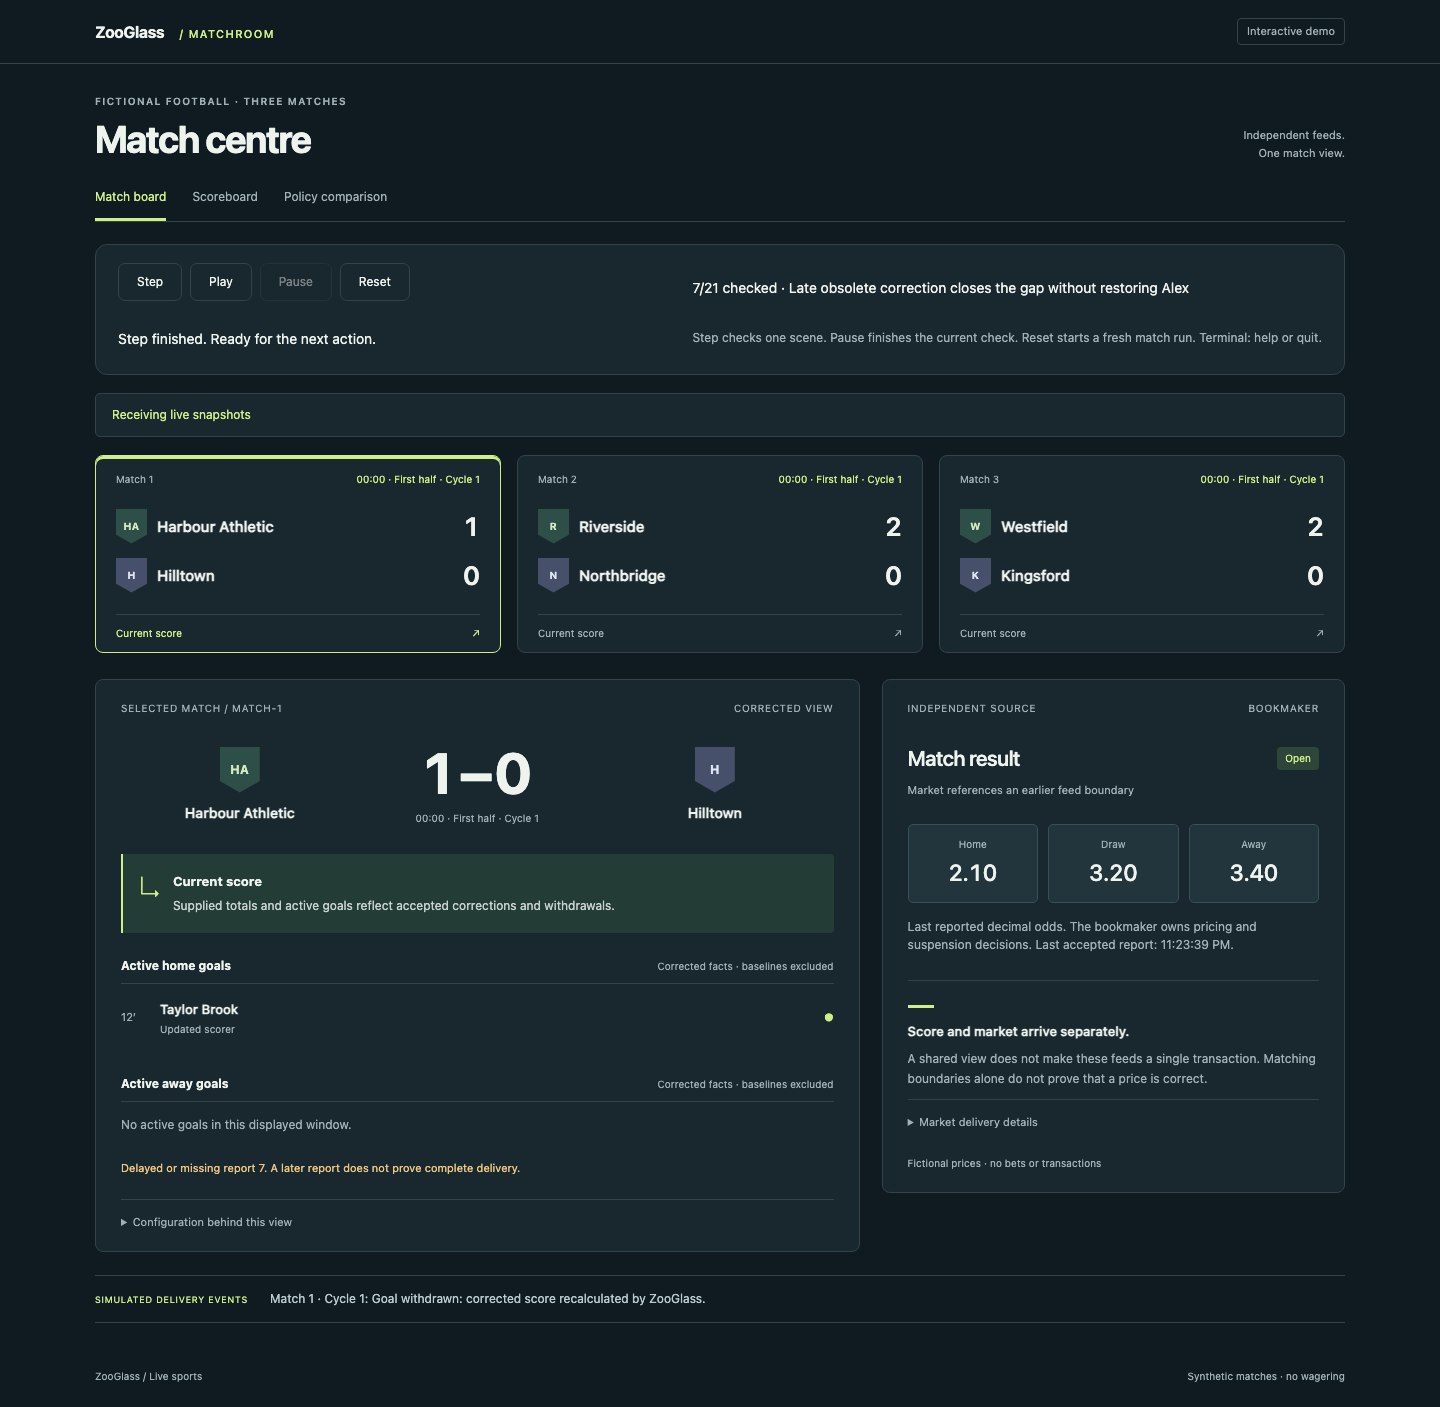
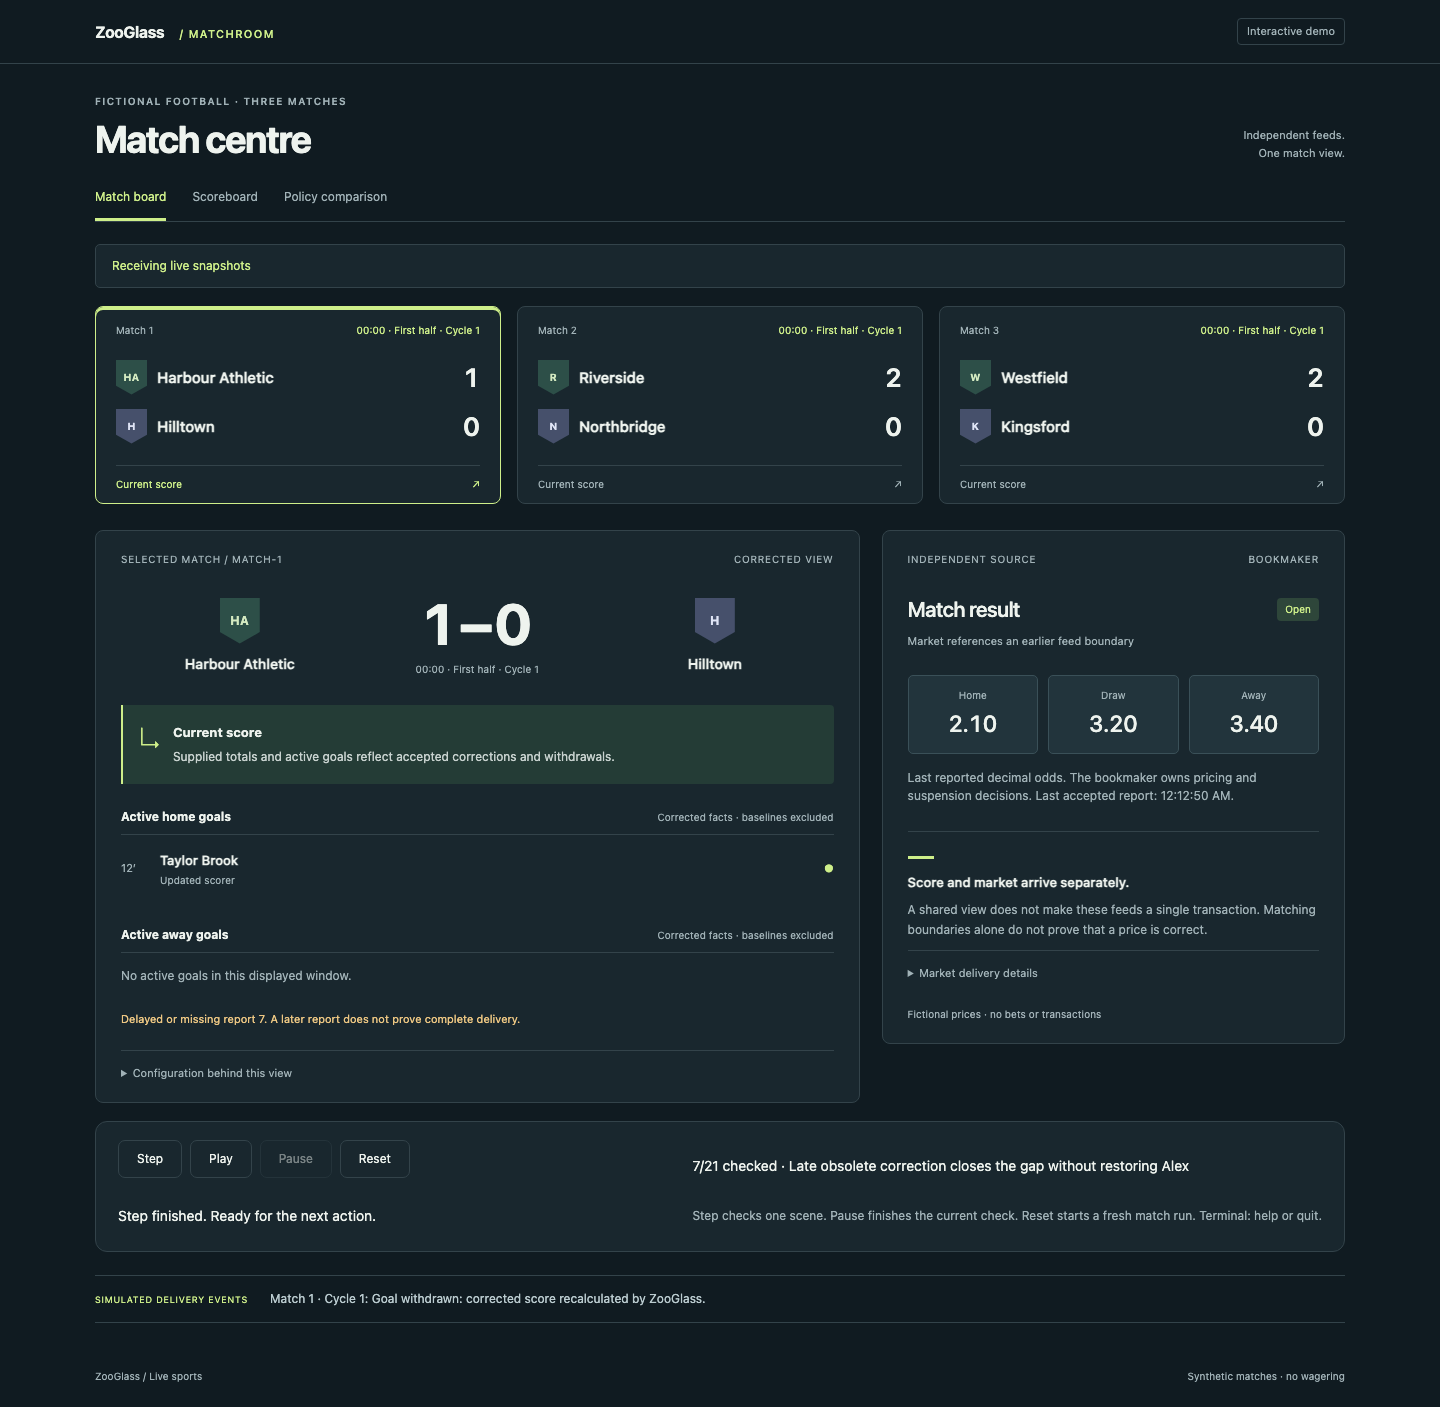
Restore Sports controls below match content

diff --git a/demos/live-sports/pages/index.html b/demos/live-sports/pages/index.html
@@ -32,25 +32,6 @@
           Policy comparison
         </button>
       </nav>
-      <section
-        id="playback"
-        class="playback"
-        aria-label="Walkthrough controls"
-        hidden
-      >
-        <div class="playback-buttons">
-          <button id="step" disabled>Step</button
-          ><button id="play" disabled>Play</button>
-          <button id="pause" disabled>Pause</button
-          ><button id="reset" disabled>Reset</button>
-        </div>
-        <p id="checkpoint-label" role="status">Preparing walkthrough…</p>
-        <p id="control-detail" role="status"></p>
-        <p class="playback-note">
-          Step checks one scene. Pause finishes the current check. Reset starts
-          a fresh match run. Terminal: help or quit.
-        </p>
-      </section>
       <div id="connection" class="connection" role="status">
         Connecting · awaiting fresh snapshots
       </div>
@@ -73,6 +54,25 @@
         hidden
         aria-label="Revision policy comparison"
       ></section>
+      <section
+        id="playback"
+        class="playback"
+        aria-label="Walkthrough controls"
+        hidden
+      >
+        <div class="playback-buttons">
+          <button id="step" disabled>Step</button
+          ><button id="play" disabled>Play</button>
+          <button id="pause" disabled>Pause</button
+          ><button id="reset" disabled>Reset</button>
+        </div>
+        <p id="checkpoint-label" role="status">Preparing walkthrough…</p>
+        <p id="control-detail" role="status"></p>
+        <p class="playback-note">
+          Step checks one scene. Pause finishes the current check. Reset starts
+          a fresh match run. Terminal: help or quit.
+        </p>
+      </section>
       <section class="notice">
         <span>Simulated delivery events</span>
         <p id="notice" role="status">Waiting for simulated delivery events.</p>

diff --git a/workbench/test/browser/sports-interactive.test.ts b/workbench/test/browser/sports-interactive.test.ts
@@ -216,11 +216,40 @@ for (const engine of [chromium, firefox, webkit])
         );
         for (const width of [360, 390, 651, 768, 1440]) {
           await page.setViewportSize({ width, height: 1000 });
-          assert.ok(
-            await page.evaluate(
-              () => document.documentElement.scrollWidth <= innerWidth,
-            ),
-          );
+          for (const view of ["board", "scoreboard", "comparison"]) {
+            await page.locator(`[data-view="${view}"]`).click();
+            assert.ok(
+              await page.evaluate(() => {
+                const controls = document
+                  .getElementById("playback")!
+                  .getBoundingClientRect();
+                const content = [
+                  "matches",
+                  "board-content",
+                  "scoreboard-note",
+                  "comparison",
+                ]
+                  .map((id) => document.getElementById(id)!)
+                  .filter((element) => element.getClientRects().length > 0);
+                return (
+                  content.every(
+                    (element) =>
+                      element.getBoundingClientRect().bottom <= controls.top,
+                  ) &&
+                  controls.bottom <=
+                    document
+                      .querySelector("section.notice")!
+                      .getBoundingClientRect().top
+                );
+              }),
+              `${engine.name()}/${width}/${view}: match content precedes controls and notices`,
+            );
+            assert.ok(
+              await page.evaluate(
+                () => document.documentElement.scrollWidth <= innerWidth,
+              ),
+            );
+          }
         }
         const rejection = await page.evaluate(
           () =>

diff --git a/demos/live-sports/README.md b/demos/live-sports/README.md
@@ -26,7 +26,8 @@ Continuous mode has no playback controls and repeats the same bounded source
 schedule at roughly three minutes per synthetic cycle.
 
 Interactive mode provides 21 checked scenes using **Step**, **Play**, **Pause** and
-**Reset**. Step waits for receipt and view checks. Pause allows the current check
+**Reset**, below the match/detail/comparison content and above delivery notices.
+Step waits for receipt and view checks. Pause allows the current check
 to finish, including the real 15-second market freshness wait. The finite sequence
 covers corrected and first-reported goals, missing deliveries, bookmaker outage,
 and retirement into a fresh cycle. Results stay visible at completion.
